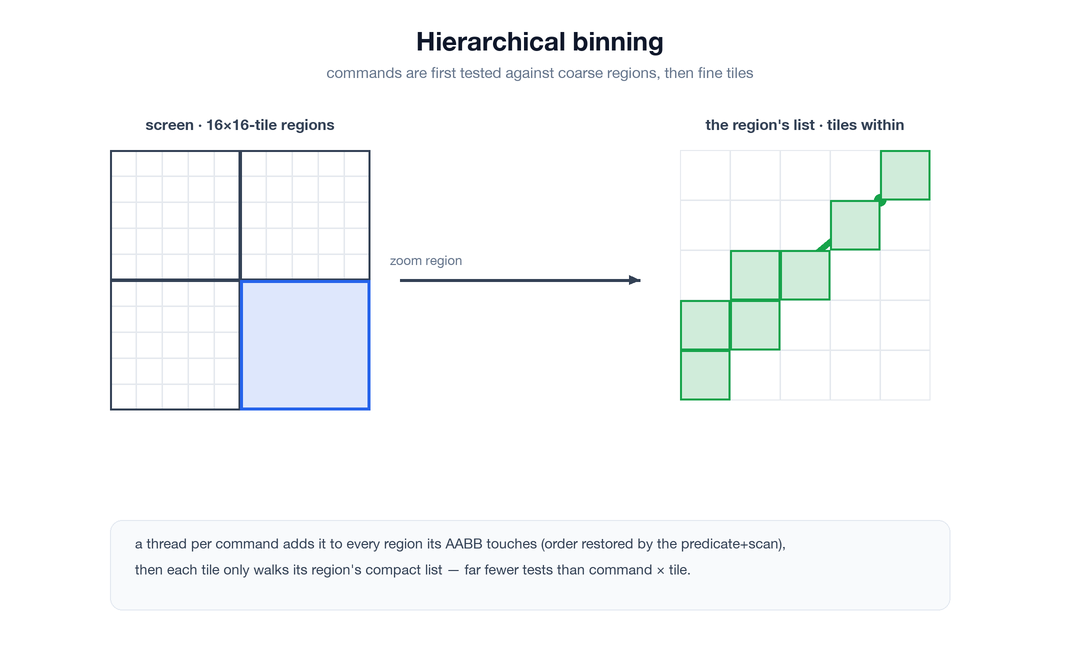
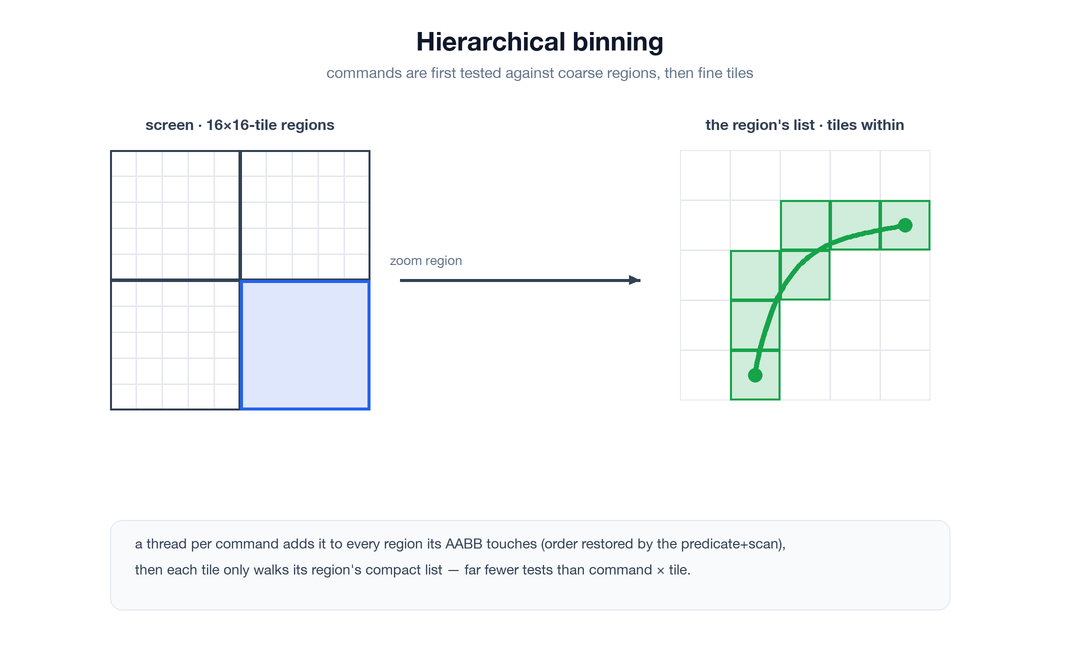
Fixed the two diagram issues

Changed region(s): [[0.7028, 0.2121, 0.8861, 0.4242], [0.6111, 0.4242, 0.7333, 0.6061]]

diff --git a/doc/part3.md b/doc/part3.md
@@ -70,14 +70,6 @@ The numbers make the win concrete: the whole curve is a single draw command of c
 
 Tessellation is done on the **CPU** with De Casteljau's algorithm until points are nearly colinear (the current threshold is 1/10th of a pixel). Splits are proportional to segment length, which performs slightly better than a fixed halfway split (`t = 0.5`) while remaining cheap. The recursion runs on a fixed-size stack (1024 deep) and returns `UINT32_MAX` if a pathological curve overflows it. We support both **quadratic** and **cubic** Bézier curves; each emitted capsule is a normal `od_draw_capsule()` call, so it flows through the same binning and rasterization path as every other primitive.
 
-Quadratic curve, tessellated from biarcs (left) to capsules (right):
-
-![Bézier curve rendered as capsules](bezier_biarcs.png)
-
-Cubic curve, same tessellation path:
-
-![Cubic Bézier rendered as capsules](bezier_capsules.png)
-
 ---
 
 [Next part](part4.md) : Font and textured quads

diff --git a/AGENTS.md b/AGENTS.md
@@ -1,6 +1,6 @@
 # AGENTS.md
 
-You can't modify this file.
+Don't modify this file.
 
 ## Code & API
 
@@ -10,6 +10,7 @@ You can't modify this file.
 - Style: `//` comments, Allman braces, 4 spaces, no tabs. Preserve existing conventions; don't reformat unrelated code.
 - Avoid needless abstractions/macros. Factor duplicated blocks >50 lines.
 - Line length: 160 chars. Separators: 127 chars (`// ----`).
+- Prefer designated initializers for struct initialization. Use compound literals with designated initializers when appropriate and when they improve readability.
 
 
 ## Code Quality
